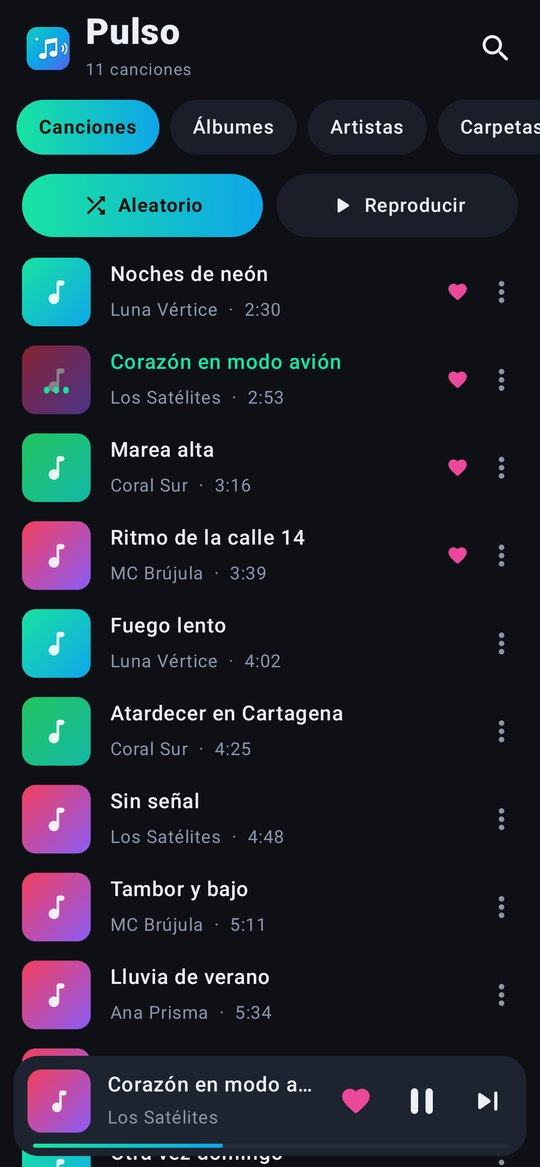
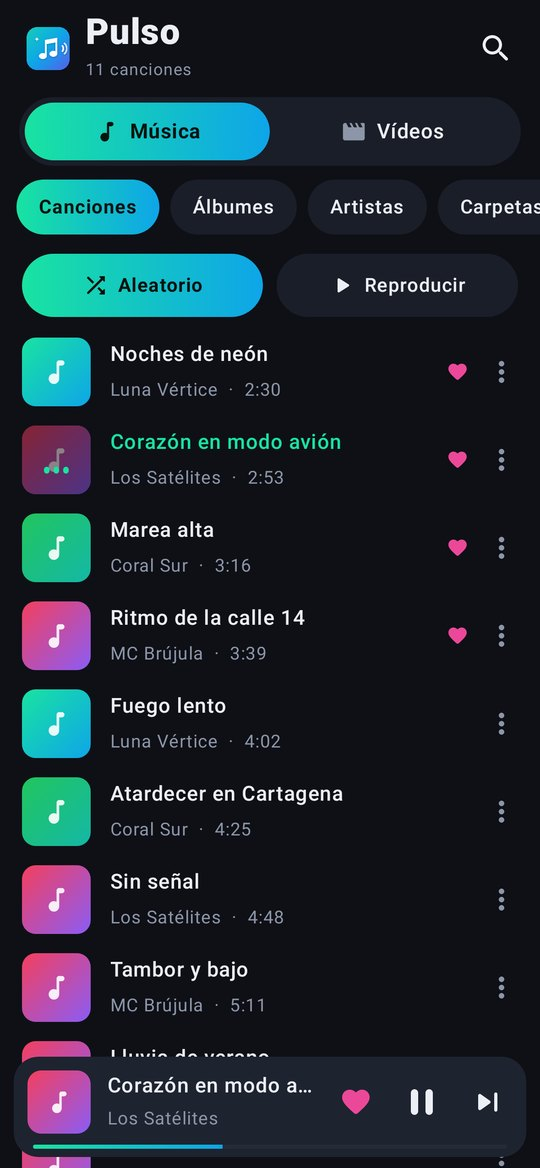
Pulso: añadir la sección de vídeos a la ficha

diff --git a/apps.js b/apps.js
@@ -7,20 +7,23 @@ window.APPS = [
   {
     id: "pulso",
     nombre: "Pulso",
-    lema: "Tu música, sin anuncios.",
+    lema: "Tu música y tus vídeos, sin anuncios.",
     descripcion:
-      "Un reproductor para la música que ya tienes en el móvil. Sigue sonando con la pantalla apagada, se controla desde la notificación y los auriculares, y recuerda la canción y el segundo exacto donde lo dejaste.",
+      "Un reproductor para la música y los vídeos que ya tienes en el móvil. La música sigue sonando con la pantalla apagada y se controla desde la notificación y los auriculares. Los vídeos se ven a pantalla completa con gestos, y Pulso recuerda el segundo exacto donde dejaste cada canción y cada vídeo.",
     funciones: [
       "Suena en segundo plano y en la pantalla de bloqueo",
       "Canciones, álbumes, artistas, carpetas y listas propias",
       "Favoritos, cola editable, aleatorio y repetir",
+      "Vídeos con «Seguir viendo», gestos de brillo, volumen y avance, y ventana flotante",
+      "Velocidad, subtítulos y pista de audio en los vídeos",
       "Temporizador para dormir",
-      "Abre audios desde WhatsApp o Archivos",
+      "Abre audios y vídeos desde WhatsApp o Archivos",
     ],
     icono: "img/icono-pulso.png",
     colores: ["#19E3A1", "#0EA5E9", "#7C3AED"],
     capturas: [
       { src: "img/pulso-canciones.jpg", alt: "Lista de canciones de Pulso con el mini reproductor abajo" },
+      { src: "img/pulso-videos.jpg", alt: "Sección de vídeos con «Seguir viendo» y la lista de vídeos" },
       { src: "img/pulso-reproductor.jpg", alt: "Reproductor a pantalla completa con carátula y controles" },
       { src: "img/pulso-albumes.jpg", alt: "Cuadrícula de álbumes" },
     ],
